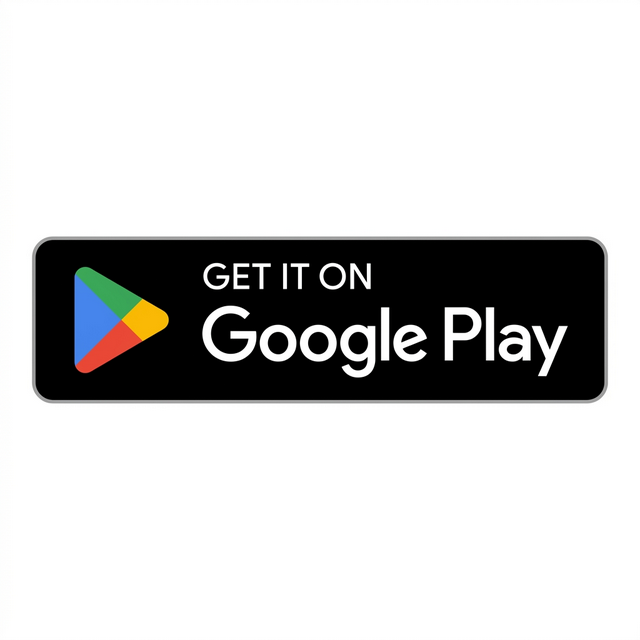
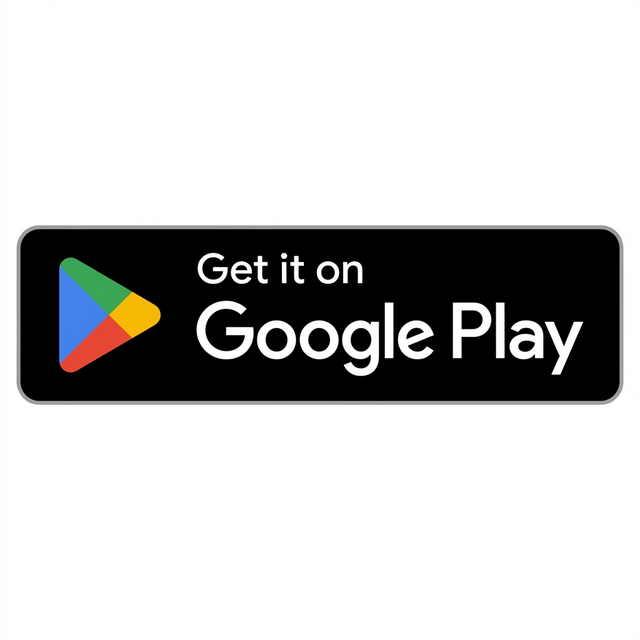
style: increase footer badge size and use tighter crop asset

Changed region(s): [[0.0, 0.3438, 1.0, 0.6562]]

diff --git a/style.css b/style.css
@@ -1729,7 +1729,7 @@ footer {
 }
 
 .footer-cta-btn img {
-    height: 45px; /* Matches the official badge scale */
+    height: 55px; /* Increased for better visibility and premium feel */
     width: auto;
 }
 
